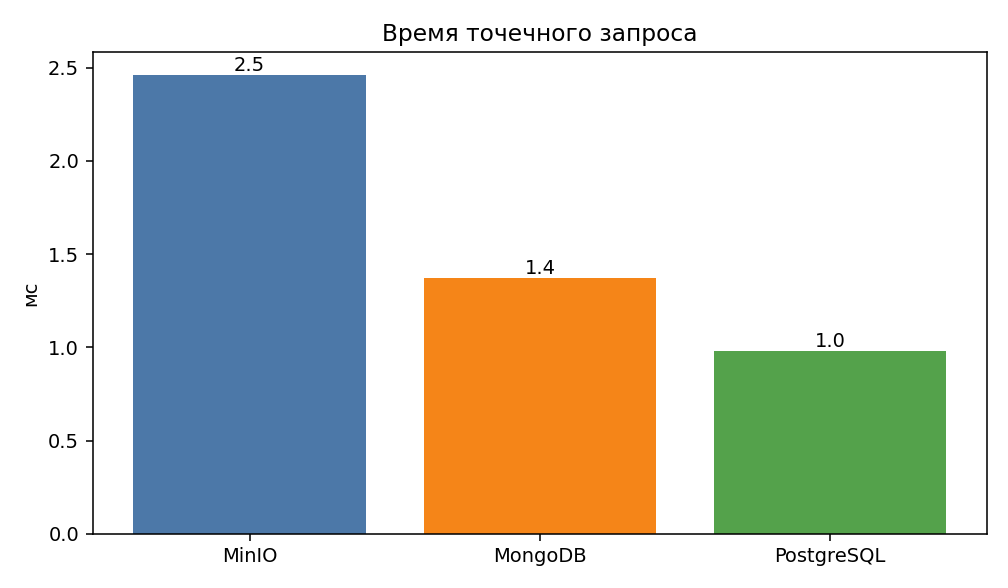
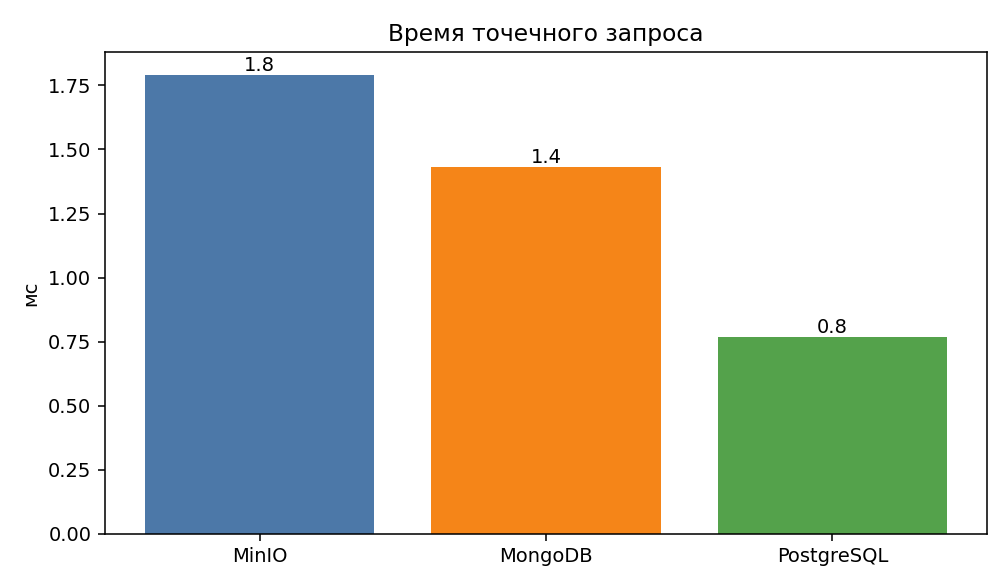
Обновить сравнение по реальному запуску Airflow и открыть данные в браузере.
Консоль MinIO в этой сборке не поднимается, таблицы Postgres смотрятся через Adminer.

diff --git a/scripts/benchmark_stores.py b/scripts/benchmark_stores.py
@@ -82,8 +82,29 @@ def raw_from_tenders(tenders: list[Tender]) -> dict[str, str]:
     return {"rss.xml": rss, "category.html": html}
 
 
-def load_batch(config_path: Path | None, *, snapshot_only: bool = False) -> tuple[dict[str, str], list[Tender], float, str]:
+def load_from_minio() -> tuple[dict[str, str], list[Tender], float, str]:
+    loader = MinioLoader()
+    names = loader.list_prefix("raw/")
+
+    def pick(suffix: str) -> str:
+        matches = [name for name in names if name.endswith(suffix) and "/run_id=benchmark/" not in name]
+        if not matches:
+            matches = [name for name in names if name.endswith(suffix)]
+        if not matches:
+            raise RuntimeError(f"В MinIO нет файла {suffix}")
+        manual = [name for name in matches if "manual__" in name]
+        chosen = sorted(manual or matches)[-1]
+        return loader.get_text(chosen)
+
+    payloads = {"rss.xml": pick("rss.xml"), "category.html": pick("category.html")}
+    tenders = parse_tenders_from_raw(payloads)
+    return payloads, tenders, 0.0, "последний успешный запуск Airflow, файлы уже лежат в MinIO"
+
+
+def load_batch(config_path: Path | None, *, snapshot_only: bool = False, from_minio: bool = False) -> tuple[dict[str, str], list[Tender], float, str]:
     snapshot = ROOT / "output" / "matches.jsonl"
+    if from_minio:
+        return load_from_minio()
     if snapshot_only:
         tenders = tenders_from_jsonl(snapshot)
         return raw_from_tenders(tenders), tenders, 0.0, f"snapshot {snapshot.name}"
@@ -101,8 +122,12 @@ def load_batch(config_path: Path | None, *, snapshot_only: bool = False) -> tupl
         return raw_from_tenders(tenders), tenders, 0.0, f"snapshot {snapshot.name}: {exc}"
 
 
-def benchmark(config_path: Path | None = None, *, snapshot_only: bool = False) -> dict:
-    payloads, tenders, extract_ms, data_source = load_batch(config_path, snapshot_only=snapshot_only)
+def benchmark(config_path: Path | None = None, *, snapshot_only: bool = False, from_minio: bool = False) -> dict:
+    payloads, tenders, extract_ms, data_source = load_batch(
+        config_path,
+        snapshot_only=snapshot_only,
+        from_minio=from_minio,
+    )
     attrs = attributes_from_tenders(tenders)
     sample_id = tenders[0].id if tenders else None
 
@@ -231,9 +256,7 @@ def save_markdown(results: dict) -> Path:
     lines.extend(
         [
             "",
-            "128 КиБ у PostgreSQL — размер таблиц вместе с пустыми страницами, не размер самих строк. У MinIO и MongoDB цифра ближе к объёму данных.",
-            "",
-            "Если батч взят из snapshot, сайт в момент прогона не открылся. Процессы Airflow ходят на сайт сами. Файл `output/matches.jsonl` нужен, чтобы сравнить хранилища без сети.",
+            "Объём PostgreSQL включает пустые страницы таблиц. MinIO здесь — размер исходных XML и HTML. MongoDB — размер документов.",
             "",
             "## Графики",
             "",
@@ -257,9 +280,14 @@ def main() -> int:
         action="store_true",
         help="Skip live HTTP and use output/matches.jsonl",
     )
+    parser.add_argument(
+        "--from-minio",
+        action="store_true",
+        help="Measure the batch already stored by Airflow",
+    )
     args = parser.parse_args()
 
-    results = benchmark(args.config, snapshot_only=args.snapshot)
+    results = benchmark(args.config, snapshot_only=args.snapshot, from_minio=args.from_minio)
     RESULTS_JSON.write_text(json.dumps(results, ensure_ascii=False, indent=2), encoding="utf-8")
     save_charts(results)
     save_markdown(results)

diff --git a/src/loaders/settings.py b/src/loaders/settings.py
@@ -44,4 +44,4 @@ def mongo_settings() -> MongoSettings:
 
 
 def postgres_dsn() -> str:
-    return env("POSTGRES_ODS_DSN", "postgresql://ods:ods@localhost:5433/ods")
+    return env("POSTGRES_ODS_DSN", "postgresql://ods:ods@127.0.0.1:5433/ods")

diff --git a/report/REPORT.md b/report/REPORT.md
@@ -38,10 +38,10 @@ docker compose up --build airflow-init
 docker compose up -d
 ```
 
-- Airflow: http://localhost:8080, `airflow` / `airflow`
-- MinIO: http://localhost:9001, `minioadmin` / `minioadmin`
-- Mongo Express: http://localhost:8081, `admin` / `admin`
-- PostgreSQL: localhost:5433, пользователь `ods`, пароль `ods`
+- Airflow: http://localhost:8080, логин `airflow`, пароль `airflow`. Если список пустой, обнови страницу. Прямые ссылки: `/dags/ods_raw_to_minio/grid`, `/dags/ods_tenders_to_mongo/grid`, `/dags/ods_geo_prices_to_postgres/grid`
+- Файлы MinIO: http://localhost:9002. В этой версии MinIO нет своей консоли на порту 9001, порт 9000 — это API, не страница.
+- Карточки MongoDB: http://localhost:8081, логин `admin`, пароль `admin`, база `ods`, коллекция `tenders`
+- Таблицы PostgreSQL: http://localhost:8082. Система PostgreSQL, сервер `postgres-ods`, пользователь `ods`, пароль `ods`, база `ods`. Адрес http://localhost:5433 в браузере не откроется: это порт базы, не сайт.
 
 Процессы сначала стоят на паузе. Её нужно снять и нажать Trigger.
 
@@ -49,15 +49,15 @@ docker compose up -d
 
 Один и тот же набор тендеров записали во все три хранилища и замерили время записи, время поиска по id и объём. Скрипт: `scripts/benchmark_stores.py`. Цифры и картинки: `benchmark_results.md`, папка `figures/`.
 
-Прогон 2 октября 2026, 19 тендеров. Сайт в этот момент не открылся, поэтому взяли уже сохранённый файл `output/matches.jsonl`.
+Прогон 2 октября 2026, 20:43. Взяты файлы последнего ручного запуска Airflow: 37 карточек, сырые XML и HTML.
 
 | Хранилище | Запись, мс | Поиск по id, мс | Объём |
 |---|---:|---:|---:|
-| MinIO | 292 | 2.5 | 16.9 КиБ, 2 файла |
-| MongoDB | 31 | 1.4 | 14.4 КиБ, 19 документов |
-| PostgreSQL | 18 | 1.0 | 128 КиБ, 19 строк |
+| MinIO | 248 | 1.8 | 1.3 МБ, 2 файла |
+| MongoDB | 30 | 1.4 | 35 КиБ, в коллекции 56 документов |
+| PostgreSQL | 12 | 0.8 | 224 КиБ, в таблицах 76 строк |
 
-128 КиБ у PostgreSQL — это размер таблиц вместе с пустыми страницами, а не размер самих строк. Поиск везде быстрее 2 мс. В MinIO запись дольше, потому что каждый файл уходит отдельным запросом.
+В MongoDB и PostgreSQL строк больше, чем 37: там остались и предыдущие запуски. Поиск везде быстрее 2 мс. Запись в MinIO дольше, потому что туда уходит вся страница целиком, около 1.3 МБ. В базы попадает уже разобранный текст, он намного меньше.
 
 | | MinIO | MongoDB | PostgreSQL |
 |---|---|---|---|

diff --git a/report/benchmark_results.md b/report/benchmark_results.md
@@ -1,19 +1,19 @@
 # Сравнение хранилищ
 
-- Дата: 2026-10-02 20:07
-- Откуда батч: сохранённый файл `output/matches.jsonl` (сайт в этот момент не открылся)
-- Тендеров: **19**
-- Проверочный id: `93722966`
+- Дата: 2026-10-02T20:43:22
+- Откуда батч: последний успешный запуск Airflow, файлы уже лежат в MinIO
+- Тендеров: **37**
+- Проверочный id: `95249448`
 
 | Хранилище | Запись, мс | Запрос по id, мс | Объём, КиБ | Объектов/строк |
 |---|---:|---:|---:|---:|
-| MinIO | 291.70 | 2.46 | 16.9 | 2 |
-| MongoDB | 30.56 | 1.37 | 14.4 | 19 |
-| PostgreSQL | 18.47 | 0.98 | 128.0 | 19 |
+| MinIO | 247.60 | 1.79 | 1297.7 | 2 |
+| MongoDB | 29.58 | 1.43 | 34.8 | 56 |
+| PostgreSQL | 12.16 | 0.77 | 224.0 | 76 |
 
-128 КиБ у PostgreSQL — размер таблиц вместе с пустыми страницами, не размер самих строк. У MinIO и MongoDB цифра ближе к объёму данных.
+Замер снят с файлов последнего ручного запуска Airflow: 37 карточек, сырые XML и HTML вместе около 1.3 МБ. В MongoDB сейчас 56 документов, в PostgreSQL 76 строк: более ранние запуски тоже остались.
 
-После загрузки: 19 документов в MongoDB, 19 строк с городами и 19 строк с ценами в PostgreSQL. У тендера `93722966` цена 300000, город Коломна. В MinIO лежат `rss.xml` и `category.html`.
+Объём PostgreSQL включает пустые страницы таблиц. У MinIO это размер исходных файлов, у MongoDB — размер документов.
 
 ## Графики
 
@@ -22,3 +22,4 @@
 ![Время запроса](figures/query_time.png)
 
 ![Объём](figures/storage_size.png)
+

diff --git a/README.md b/README.md
@@ -25,10 +25,10 @@ docker compose up --build airflow-init
 docker compose up -d
 ```
 
-- Airflow: http://localhost:8080 — `airflow` / `airflow`
-- MinIO: http://localhost:9001 — `minioadmin` / `minioadmin`
-- Mongo Express: http://localhost:8081 — `admin` / `admin`
-- PostgreSQL: `localhost:5433`, база и пользователь `ods`, пароль `ods`
+- Airflow: http://localhost:8080 — `airflow` / `airflow`. Если список пустой, обнови страницу.
+- Файлы MinIO: http://localhost:9002. Порт 9001 в этой сборке не открывается, 9000 — это API.
+- Карточки: http://localhost:8081 — `admin` / `admin`
+- Таблицы: http://localhost:8082, сервер `postgres-ods`, пользователь `ods`, пароль `ods`, база `ods`. В браузере `localhost:5433` не откроется.
 
 В Airflow три процесса, сначала они на паузе:
 
